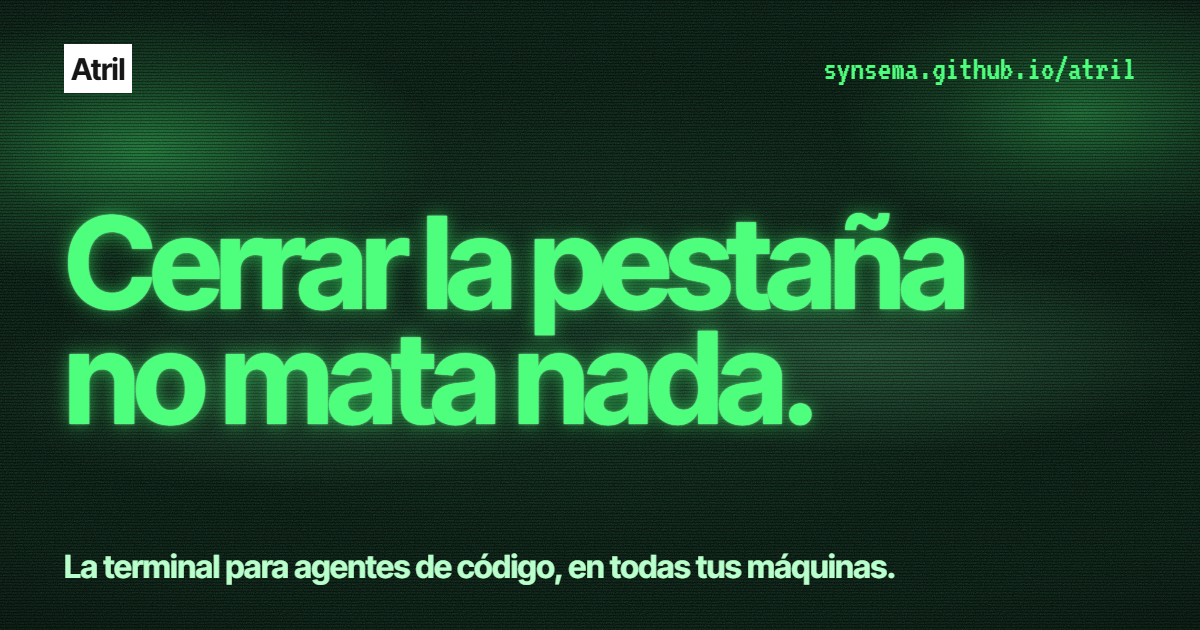
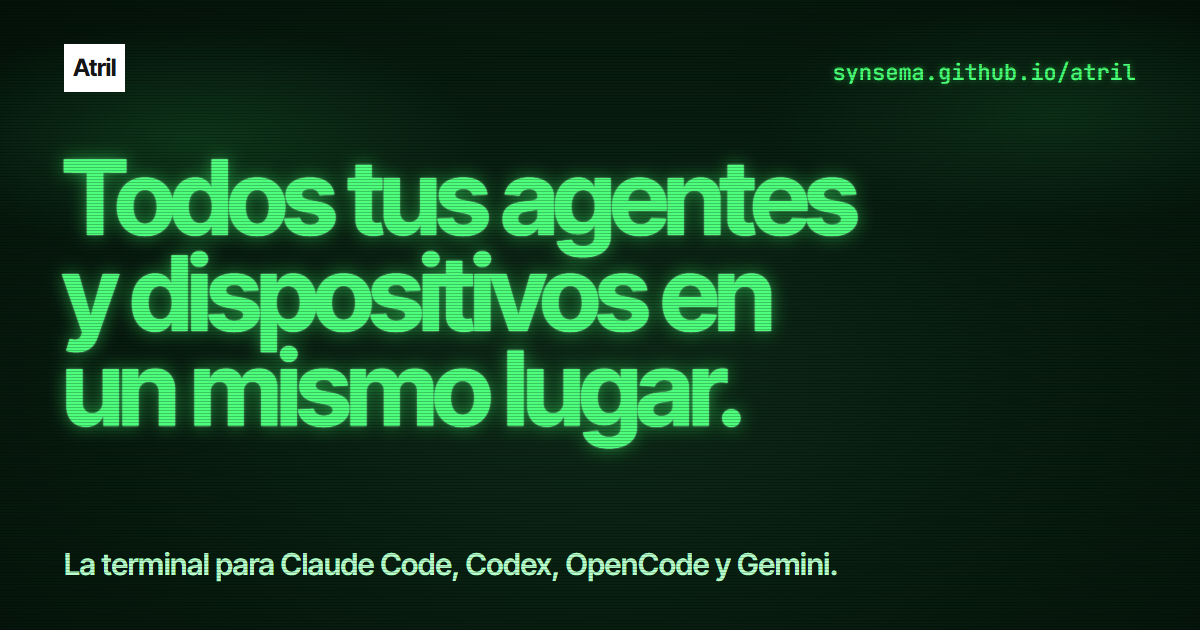
Site: the shared card says what Atril is
«Todos tus agentes y dispositivos en un mismo lugar» instead of «Cerrar la pestaña no mata nada»,
in the image and in the titles a shared link shows.

diff --git a/site/index.html b/site/index.html
@@ -4,7 +4,7 @@
 <meta charset="utf-8">
 <meta name="viewport" content="width=device-width, initial-scale=1">
 <title>Atril — la terminal para agentes de código</title>
-<meta name="description" content="Atril corre Claude Code, Codex, OpenCode y Gemini en todas tus máquinas, en una sola ventana. Cerrar la pestaña no mata nada: cada sesión sigue viva hasta que termina. Gratis y de código abierto.">
+<meta name="description" content="Todos tus agentes y dispositivos en un mismo lugar: Atril corre Claude Code, Codex, OpenCode y Gemini en todas tus máquinas, en una sola ventana, y cada sesión sigue viva aunque cierres la pestaña. Gratis y de código abierto.">
 <link rel="canonical" href="https://synsema.github.io/atril/">
 <meta name="theme-color" content="#03100a">
 <meta name="color-scheme" content="dark light">
@@ -15,14 +15,14 @@
 <meta property="og:site_name" content="Atril">
 <meta property="og:locale" content="es_LA">
 <meta property="og:url" content="https://synsema.github.io/atril/">
-<meta property="og:title" content="Atril — Cerrar la pestaña no mata nada">
+<meta property="og:title" content="Atril — Todos tus agentes y dispositivos en un mismo lugar">
 <meta property="og:description" content="La terminal para agentes de código: tus sesiones de Claude Code, Codex, OpenCode y Gemini, vivas en todas tus máquinas.">
 <meta property="og:image" content="https://synsema.github.io/atril/og.png">
 <meta property="og:image:width" content="1200">
 <meta property="og:image:height" content="630">
-<meta property="og:image:alt" content="Atril: Cerrar la pestaña no mata nada.">
+<meta property="og:image:alt" content="Atril: todos tus agentes y dispositivos en un mismo lugar.">
 <meta name="twitter:card" content="summary_large_image">
-<meta name="twitter:title" content="Atril — Cerrar la pestaña no mata nada">
+<meta name="twitter:title" content="Atril — Todos tus agentes y dispositivos en un mismo lugar">
 <meta name="twitter:description" content="La terminal para agentes de código, en todas tus máquinas.">
 <meta name="twitter:image" content="https://synsema.github.io/atril/og.png">
 
